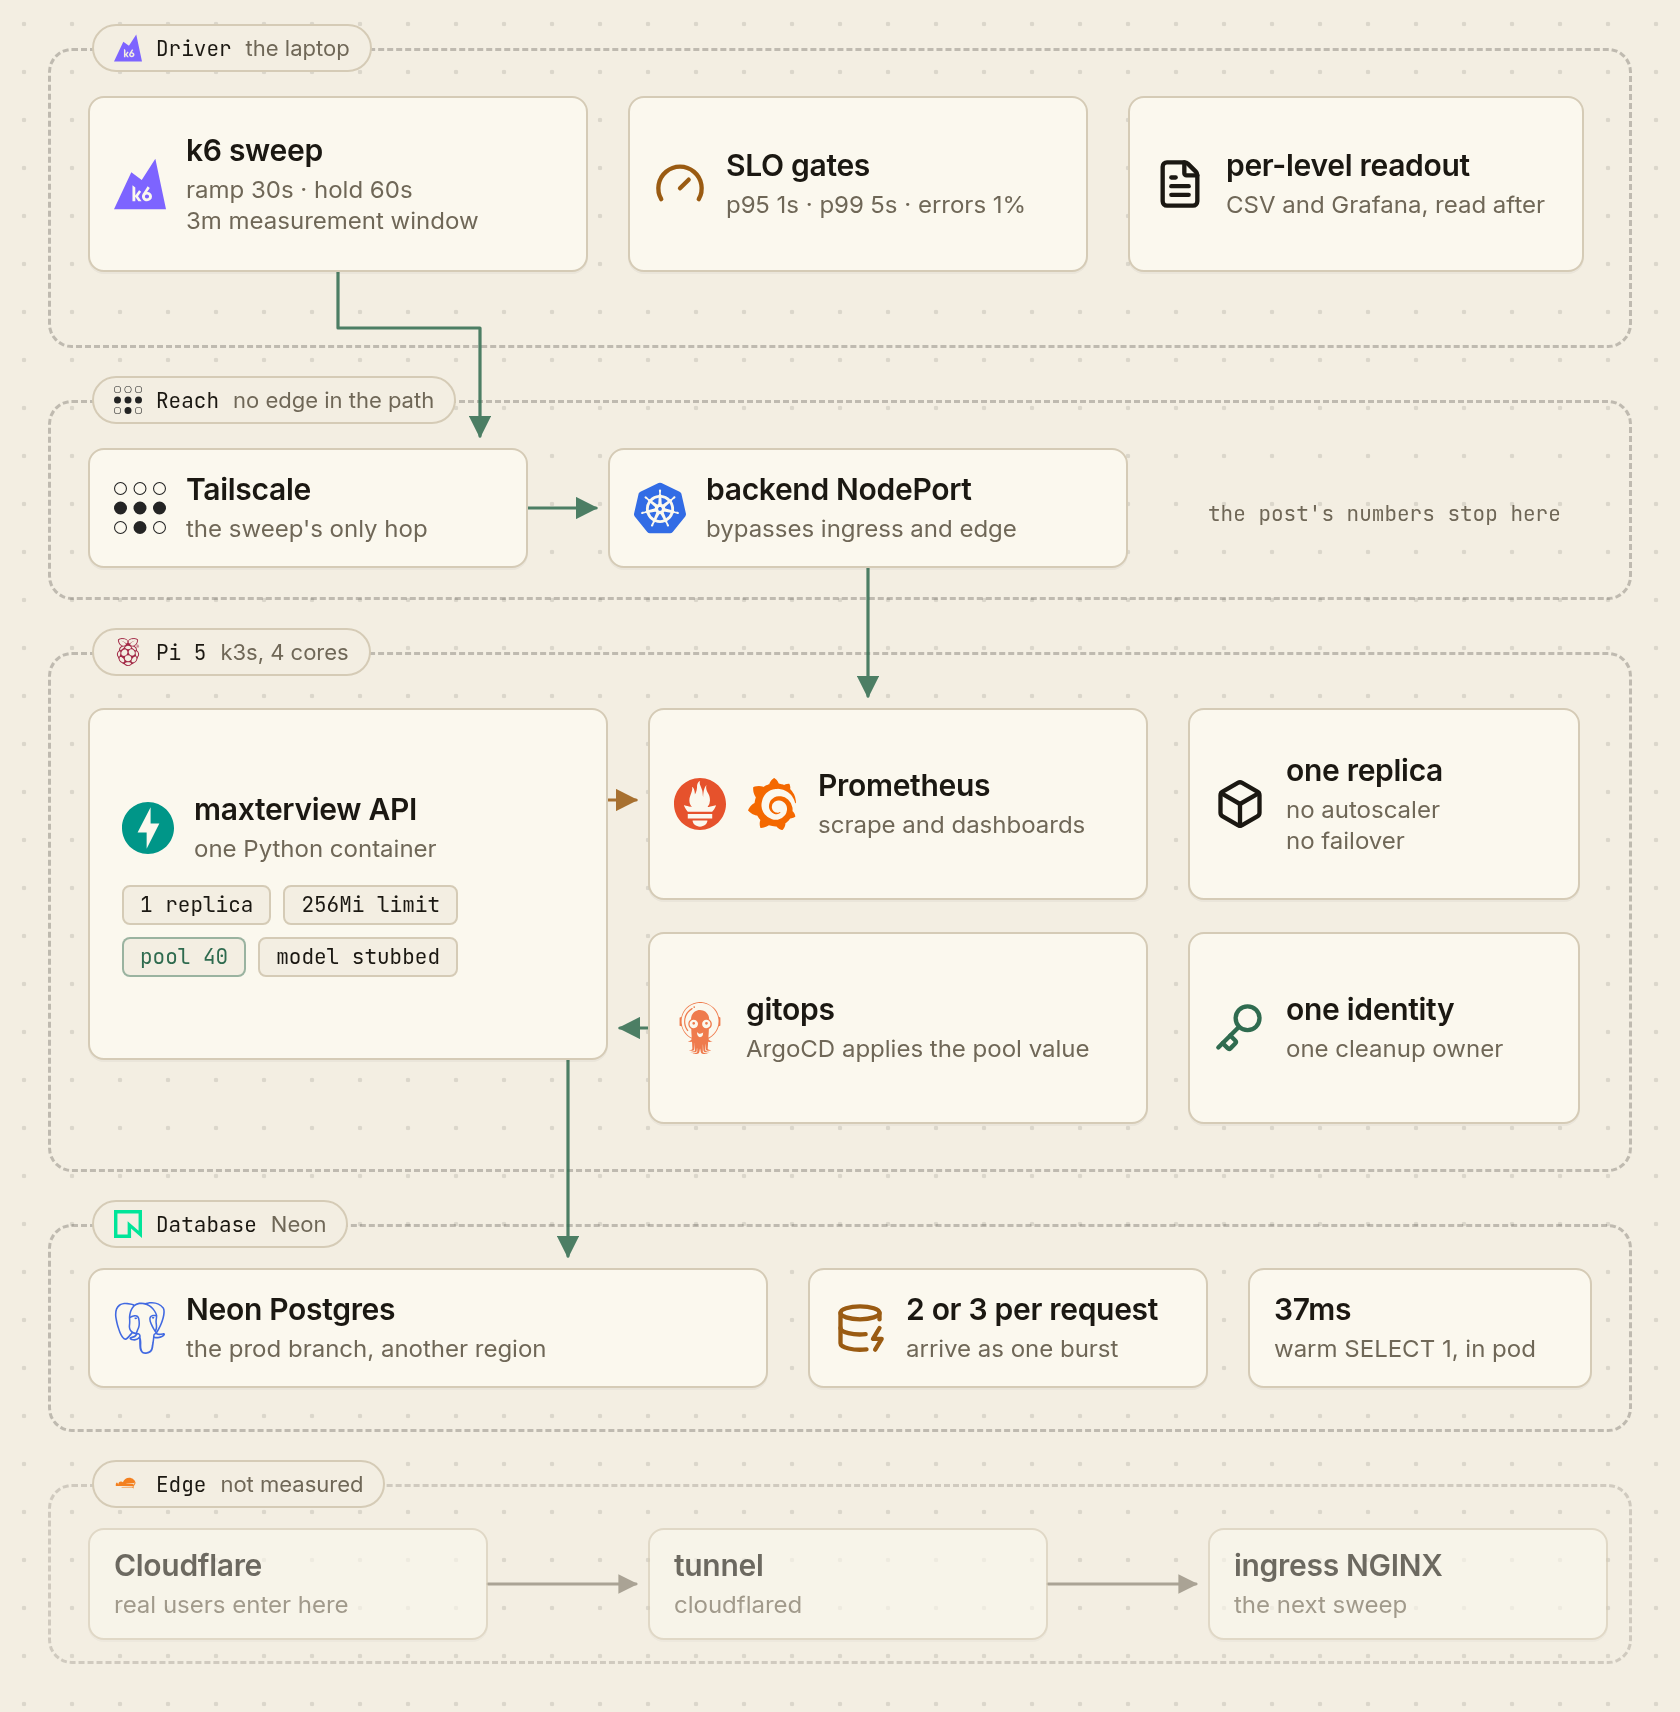
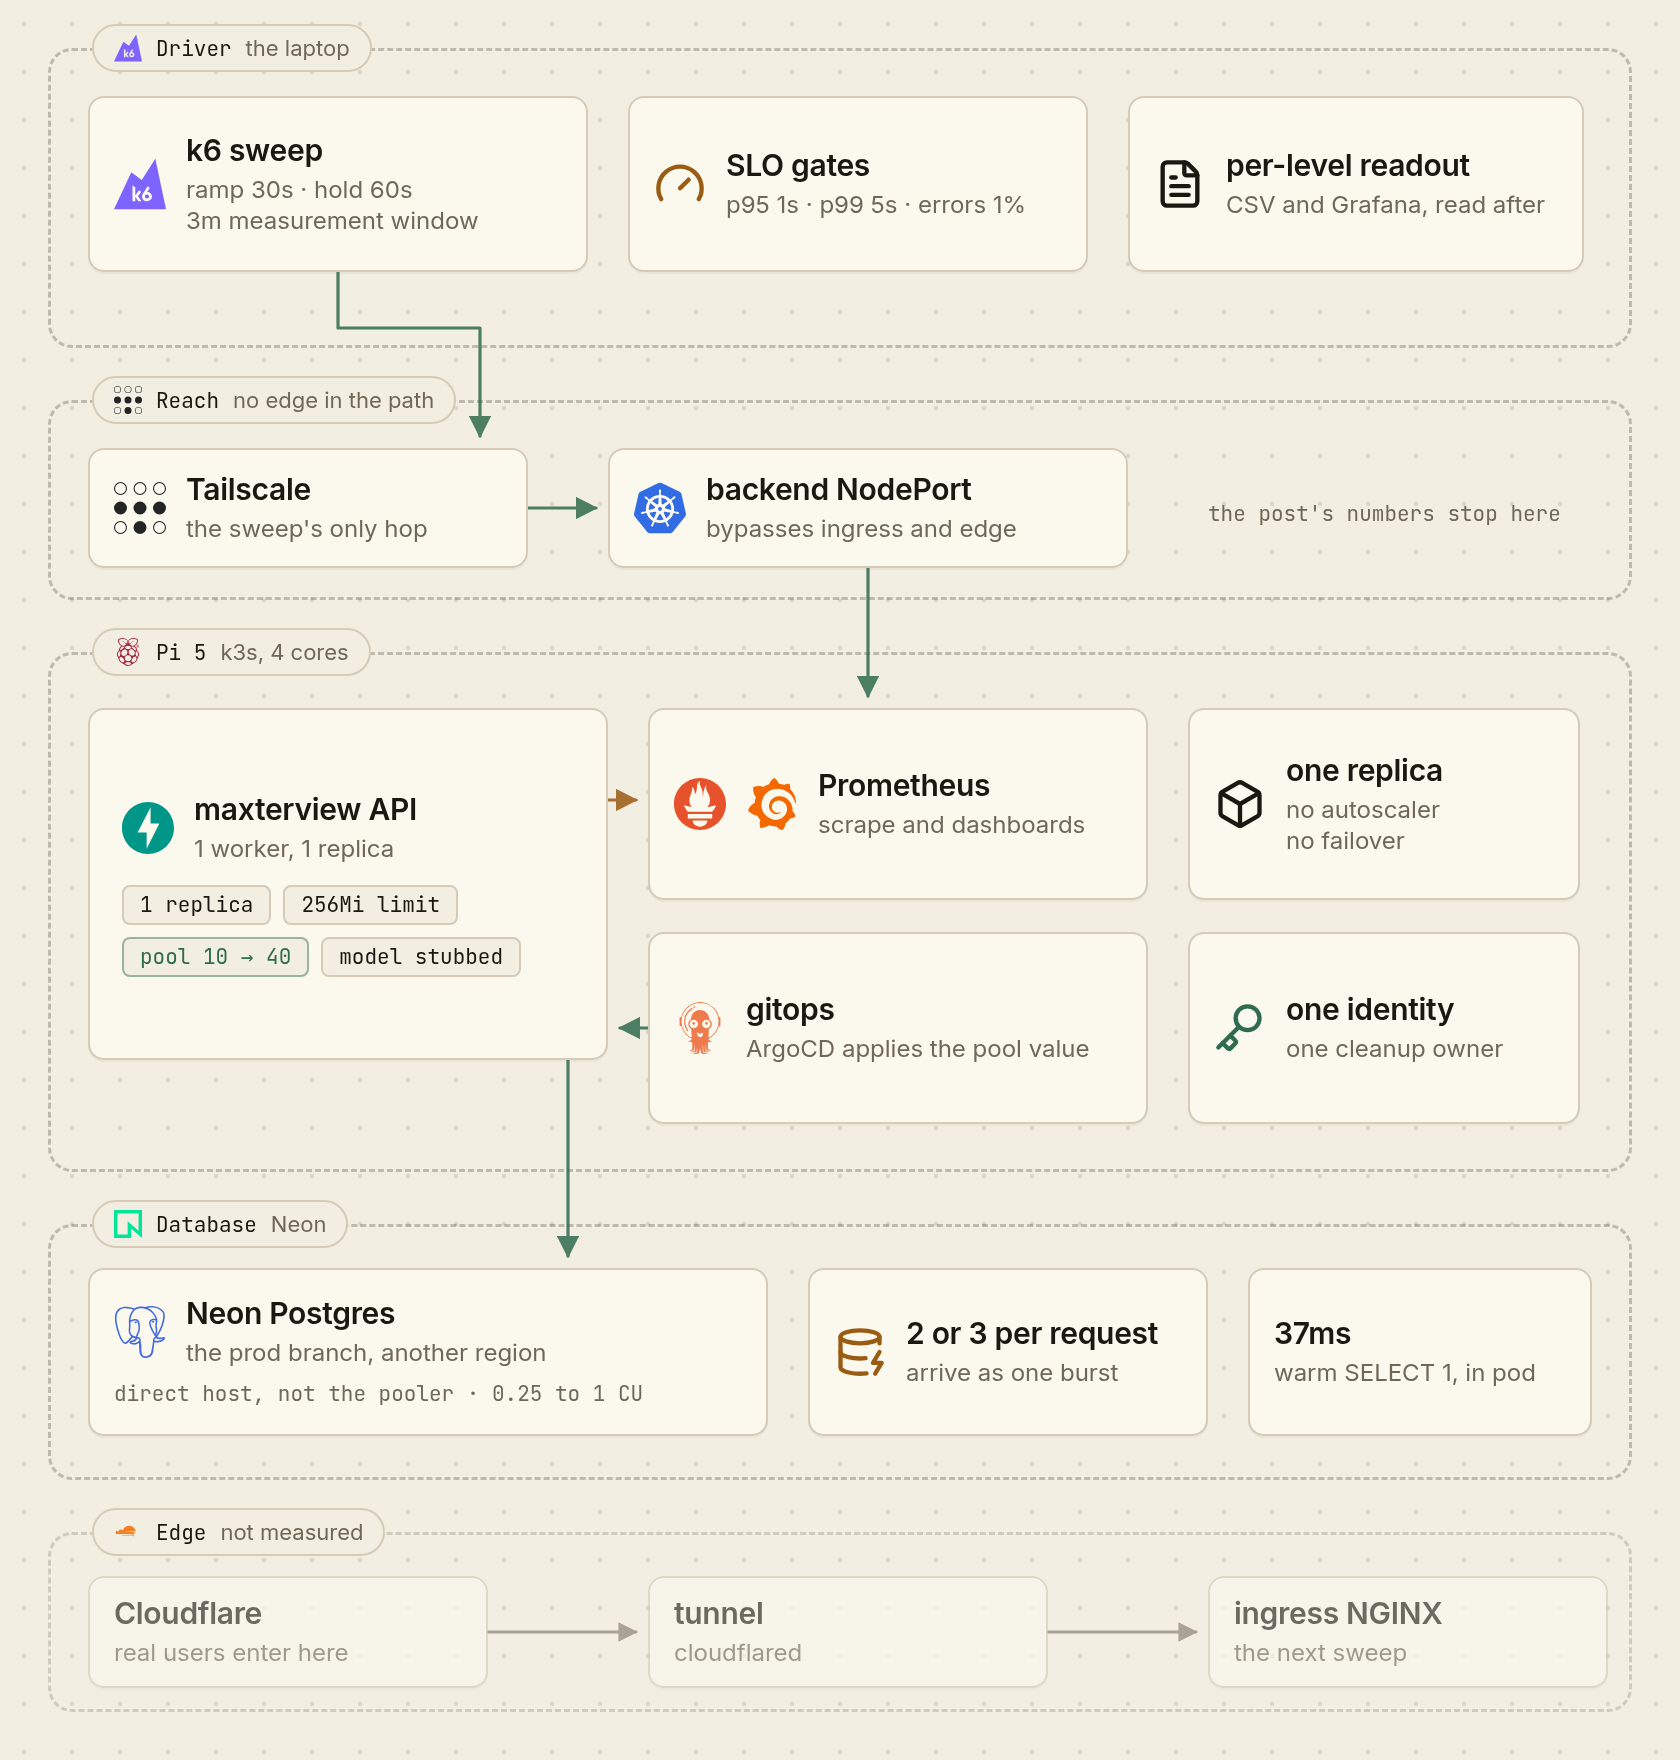
feat(diagrams): add pod and Neon config to the stack

diff --git a/frontend/scripts/diagrams/sre-stack.html b/frontend/scripts/diagrams/sre-stack.html
@@ -20,7 +20,7 @@
     #canvas {
         position: relative;
         width: 840px;
-        height: 856px;
+        height: 880px;
         overflow: hidden;
         background-color: var(--paper);
         background-image: radial-gradient(circle, rgba(27, 24, 18, 0.11) 1px, transparent 1.3px);
@@ -78,6 +78,20 @@
         padding: 14px 16px;
     }
     .node.tall .head { display: flex; gap: 10px; align-items: center; }
+    .node.stack {
+        flex-direction: column;
+        align-items: stretch;
+        justify-content: center;
+        gap: 6px;
+        padding: 11px 12px;
+    }
+    .node.stack .head { display: flex; gap: 10px; align-items: center; }
+    .mono {
+        font-family: "JetBrains Mono", "DejaVu Sans Mono", monospace;
+        font-size: 10.5px;
+        color: var(--muted);
+        line-height: 1.35;
+    }
     .chips { display: flex; flex-wrap: wrap; gap: 6px; }
     .chip {
         display: inline-flex;
@@ -104,7 +118,7 @@
 </head>
 <body>
 <div id="canvas">
-    <svg id="wires" viewBox="0 0 840 856" xmlns="http://www.w3.org/2000/svg">
+    <svg id="wires" viewBox="0 0 840 880" xmlns="http://www.w3.org/2000/svg">
         <defs>
             <marker id="arrow" viewBox="0 0 10 10" refX="9" refY="5" markerWidth="7" markerHeight="7" orient="auto-start-reverse">
                 <path d="M0,0 L10,5 L0,10 Z" fill="#2f6b4f" />
@@ -125,8 +139,8 @@
             <path d="M304,400 H318" stroke="#9a5b12" stroke-dasharray="5 4" marker-end="url(#arrowamber)" />
         </g>
         <g fill="none" stroke="#6f6757" stroke-width="1.4" stroke-linecap="round" stroke-linejoin="round" opacity="0.55">
-            <path d="M244,792 H318" marker-end="url(#arrowghost)" />
-            <path d="M524,792 H598" marker-end="url(#arrowghost)" />
+            <path d="M244,816 H318" marker-end="url(#arrowghost)" />
+            <path d="M524,816 H598" marker-end="url(#arrowghost)" />
         </g>
     </svg>
 
@@ -179,13 +193,13 @@
             <img src="icons/brands/fastapi.svg" alt="" />
             <div>
                 <div class="title">maxterview API</div>
-                <div class="sub">one Python container</div>
+                <div class="sub">1 worker, 1 replica</div>
             </div>
         </div>
         <div class="chips">
             <span class="chip">1 replica</span>
             <span class="chip">256Mi limit</span>
-            <span class="chip hot">pool 40</span>
+            <span class="chip hot">pool 10 → 40</span>
             <span class="chip">model stubbed</span>
         </div>
     </div>
@@ -219,44 +233,47 @@
         </div>
     </div>
 
-    <div class="zone" style="top:612px; height:104px;"></div>
+    <div class="zone" style="top:612px; height:128px;"></div>
     <div class="zone-label" style="top:600px;"><img src="icons/brands/neon.svg" alt="" /><span class="tag">Database</span><span class="sub">Neon</span></div>
-    <div class="node" style="left:44px; top:634px; width:340px; height:60px;">
-        <img src="icons/brands/postgresql.svg" alt="" />
-        <div>
-            <div class="title">Neon Postgres</div>
-            <div class="sub">the prod branch, another region</div>
+    <div class="node stack" style="left:44px; top:634px; width:340px; height:84px;">
+        <div class="head">
+            <img src="icons/brands/postgresql.svg" alt="" />
+            <div>
+                <div class="title">Neon Postgres</div>
+                <div class="sub">the prod branch, another region</div>
+            </div>
         </div>
+        <div class="mono">direct host, not the pooler · 0.25 to 1 CU</div>
     </div>
-    <div class="node" style="left:404px; top:634px; width:200px; height:60px;">
+    <div class="node" style="left:404px; top:634px; width:200px; height:84px;">
         <img src="icons/line/database-zap.svg" alt="" />
         <div>
             <div class="title">2 or 3 per request</div>
             <div class="sub">arrive as one burst</div>
         </div>
     </div>
-    <div class="node" style="left:624px; top:634px; width:172px; height:60px;">
+    <div class="node" style="left:624px; top:634px; width:172px; height:84px;">
         <div>
             <div class="title">37ms</div>
             <div class="sub">warm SELECT 1, in pod</div>
         </div>
     </div>
 
-    <div class="zone ghost" style="top:742px; height:90px;"></div>
-    <div class="zone-label" style="top:730px;"><svg width="14" height="14" viewBox="0 0 24 24" xmlns="http://www.w3.org/2000/svg" style="flex:none;"><path fill="#F38020" d="M16.5088 16.8447c.1475-.5068.0908-.9707-.1553-1.3154-.2246-.3164-.6045-.499-1.0615-.5205l-8.6592-.1123a.1559.1559 0 0 1-.1333-.0713c-.0283-.042-.0351-.0986-.021-.1553.0278-.084.1123-.1484.2036-.1562l8.7359-.1123c1.0351-.0489 2.1601-.8868 2.5537-1.9136l.499-1.3013c.0215-.0561.0293-.1128.0147-.16-.5591-2.5342-2.8184-4.3798-5.4971-4.3798-2.4805 0-4.5996 1.5864-5.3525 3.7647-.4888-.3633-1.1074-.5591-1.7676-.4893-1.1855.1191-2.1382 1.0791-2.25 2.2656-.0303.3174-.0078.624.0644.9121C3.0518 9.0396 1.5 10.7778 1.5 12.8745c0 .1826.0146.3652.0439.5449a.2266.2266 0 0 0 .2246.1904h15.0547c.1069 0 .1987-.0718.2246-.1758l.0596-.2295c.0752-.2578.0449-.5049-.0752-.6836-.2148-.3164-.5801-.499-1.0371-.5205l-5.3516-.1123a.166.166 0 0 1-.1333-.2246c.0278-.084.1123-.1484.2036-.1562l5.4287-.1123c.6226-.0293 1.2832-.5605 1.5171-1.2012l.2944-.7695c.0147-.042.0147-.084.0074-.1191-.0215-.0772-.0928-.1338-.1738-.1338Z"/></svg><span class="tag">Edge</span><span class="sub">not measured</span></div>
-    <div class="node ghost" style="left:44px; top:764px; width:200px; height:56px;">
+    <div class="zone ghost" style="top:766px; height:90px;"></div>
+    <div class="zone-label" style="top:754px;"><svg width="14" height="14" viewBox="0 0 24 24" xmlns="http://www.w3.org/2000/svg" style="flex:none;"><path fill="#F38020" d="M16.5088 16.8447c.1475-.5068.0908-.9707-.1553-1.3154-.2246-.3164-.6045-.499-1.0615-.5205l-8.6592-.1123a.1559.1559 0 0 1-.1333-.0713c-.0283-.042-.0351-.0986-.021-.1553.0278-.084.1123-.1484.2036-.1562l8.7359-.1123c1.0351-.0489 2.1601-.8868 2.5537-1.9136l.499-1.3013c.0215-.0561.0293-.1128.0147-.16-.5591-2.5342-2.8184-4.3798-5.4971-4.3798-2.4805 0-4.5996 1.5864-5.3525 3.7647-.4888-.3633-1.1074-.5591-1.7676-.4893-1.1855.1191-2.1382 1.0791-2.25 2.2656-.0303.3174-.0078.624.0644.9121C3.0518 9.0396 1.5 10.7778 1.5 12.8745c0 .1826.0146.3652.0439.5449a.2266.2266 0 0 0 .2246.1904h15.0547c.1069 0 .1987-.0718.2246-.1758l.0596-.2295c.0752-.2578.0449-.5049-.0752-.6836-.2148-.3164-.5801-.499-1.0371-.5205l-5.3516-.1123a.166.166 0 0 1-.1333-.2246c.0278-.084.1123-.1484.2036-.1562l5.4287-.1123c.6226-.0293 1.2832-.5605 1.5171-1.2012l.2944-.7695c.0147-.042.0147-.084.0074-.1191-.0215-.0772-.0928-.1338-.1738-.1338Z"/></svg><span class="tag">Edge</span><span class="sub">not measured</span></div>
+    <div class="node ghost" style="left:44px; top:788px; width:200px; height:56px;">
         <div>
             <div class="title">Cloudflare</div>
             <div class="sub">real users enter here</div>
         </div>
     </div>
-    <div class="node ghost" style="left:324px; top:764px; width:200px; height:56px;">
+    <div class="node ghost" style="left:324px; top:788px; width:200px; height:56px;">
         <div>
             <div class="title">tunnel</div>
             <div class="sub">cloudflared</div>
         </div>
     </div>
-    <div class="node ghost" style="left:604px; top:764px; width:200px; height:56px;">
+    <div class="node ghost" style="left:604px; top:788px; width:200px; height:56px;">
         <div>
             <div class="title">ingress NGINX</div>
             <div class="sub">the next sweep</div>

diff --git a/frontend/src/content/blogs/sre-toolkit-upgrade.md b/frontend/src/content/blogs/sre-toolkit-upgrade.md
@@ -11,7 +11,7 @@ Maxterview is an interview simulator: a candidate creates an interview, the inte
 
 It runs on one Raspberry Pi 5 with one replica, no autoscaler, and a Neon database in another region. I did not know what load that holds, and I had no honest way of finding out, so I wrote the experiment down first and ran it afterwards to fix it.
 
-![Paper stack diagram in five zones. Driver: k6 on the laptop with its SLO gates at p95 under 1s, p99 under 5s and errors under 1%, and a per-level readout in CSV and Grafana. Reach: Tailscale is the only hop, then the backend NodePort, which bypasses ingress and the edge. Pi 5 running k3s: one maxterview API pod with one replica, a 256Mi limit, pool 40 and the model stubbed; Prometheus scrapes it for the dashboards; ArgoCD applies the pool value from gitops; two notes hold the scope: one replica with no autoscaler and no failover, and one identity so cleanup has a single owner. Database: Neon Postgres on the prod branch in another region, two or three queries per request, and a warm SELECT 1 at 37ms inside the pod. Edge: Cloudflare, the tunnel and ingress NGINX on the production path, not measured.](/sre-sweep-stack.png)
+![Paper stack diagram in five zones. Driver: k6 on the laptop with its SLO gates at p95 under 1s, p99 under 5s and errors under 1%, and a per-level readout in CSV and Grafana. Reach: Tailscale is the only hop, then the backend NodePort, which bypasses ingress and the edge. Pi 5 running k3s: one maxterview API pod with one worker, one replica, a 256Mi limit, pool 10 to 40 and the model stubbed; Prometheus scrapes it for the dashboards; ArgoCD applies the pool value from gitops; two notes hold the scope: one replica with no autoscaler and no failover, and one identity so cleanup has a single owner. Database: Neon Postgres on the prod branch in another region, reached on its direct host and not the pooler, compute 0.25 to 1 CU, two or three queries per request, and a warm SELECT 1 at 37ms inside the pod. Edge: Cloudflare, the tunnel and ingress NGINX on the production path, not measured.](/sre-sweep-stack.png)
 
 ---
 
